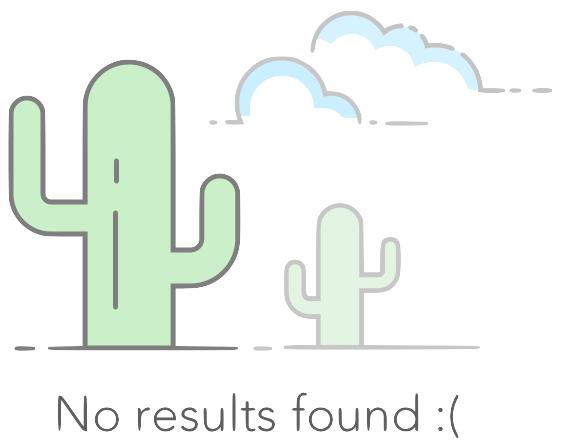
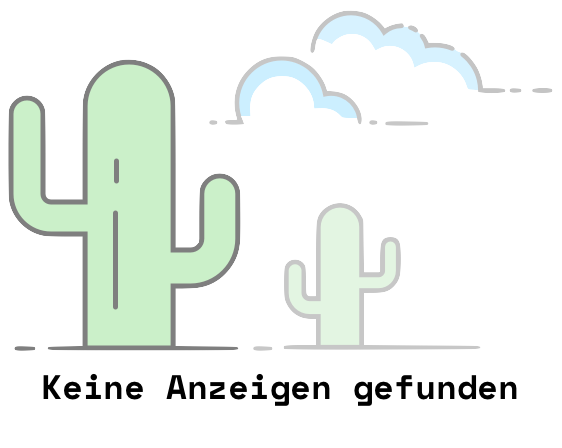
- "Keine Anzeigen gefunden"-Seite-Bild auf Deutsch - Maybe fix für mehrere Ergebnisseiten - Platznutzung auf der Detailansicht verbessert

Changed region(s): [[0.0605, 0.8125, 0.9377, 0.9688]]

diff --git a/website_root/styles/detailView.css b/website_root/styles/detailView.css
@@ -24,6 +24,10 @@
     }
 }
 
+.offerMainContent {
+    flex-grow: 100;
+}
+
 .offerNameTime {
     display: inline-flex;
     justify-content: space-between;
@@ -158,11 +162,11 @@
 }
 
 .map {
-    max-height: 250px;
+    max-height: 500px;
 }
 
 #mapView {
-    height: 250px;
+    height: 500px;
 }
 
 .errorContainer > h1 {

diff --git a/website_root/search.php b/website_root/search.php
@@ -6,7 +6,7 @@ use php\offer\OfferDAOImpl;
 include_once 'php/classes.php';
 
 if (!isset($_SESSION["searchStartWith"])) {
-    $_SESSION["searchStartWith"] = 0;
+    $_SESSION["searchStartWith"] = -1;
 }
 if (isset($_GET["startWith"])) {
     $start = (int)htmlspecialchars($_GET["startWith"]);
@@ -30,7 +30,7 @@ if (isset($_GET["startWith"])) {
     }
 } //Normale Suche (Startseite oder searchJob)
 elseif (isset($_GET['what']) || isset($_GET['where'])) {
-    $_SESSION["searchStartWith"] = 0;
+    $_SESSION["searchStartWith"] = -1;
     //Suchbegriffe übernehmen oder leer setzen
     $what = htmlspecialchars($_GET['what']) ?? "";
     $where = htmlspecialchars($_GET['where']) ?? "";
@@ -63,7 +63,7 @@ elseif (isset($_GET['what']) || isset($_GET['where'])) {
     displayResults($result);
     //Wenn gefiltert wurde, oder die Seite neugeladen wurde
 } elseif (isset($_GET['type1']) || isset($_GET['type2']) || isset($_GET['type4']) || isset($_GET['type8']) || isset($_GET['duration1']) || isset($_GET['duration2']) || isset($_GET['duration4']) || isset($_GET['time1']) || isset($_GET['time2']) || isset($_GET['time4']) || isset($_GET['time8']) || isset($_GET['time16']) || isset($_SESSION['ls_what']) || isset($_SESSION['ls_where'])) {
-    $_SESSION["searchStartWith"] = 0;
+    $_SESSION["searchStartWith"] = -1;
     //Filter laden, oder leeren
     $type = ($_GET['type1'] ?? 0) + ($_GET['type2'] ?? 0) + ($_GET['type4'] ?? 0) + ($_GET['type8'] ?? 0);
     $duration = ($_GET['duration1'] ?? 0) + ($_GET['duration2'] ?? 0) + ($_GET['duration4'] ?? 0);
@@ -181,7 +181,7 @@ function displayResults($result)
                     </form>
                     <?php
                 }
-                if (sizeof($result) === 5) {
+                if (sizeof($result) === 5 && $result[sizeof($result) - 1]->getId() - 1 >= 0) {
                     ?>
                     <form method="GET">
                         <label for="nextSite" hidden>Nächste Seite</label>

diff --git a/website_root/php/offer/OfferDAOImpl.php b/website_root/php/offer/OfferDAOImpl.php
@@ -243,8 +243,9 @@ class OfferDAOImpl implements OfferDAO
             }
             $command .= ")";
         }
-        if ($startID > 0) {
-            $command .= " AND offers.id <= " . $startID;
+        if ($startID >= 0) {
+            $command .= " AND offers.id <= ?";
+            $values[] = $startID;
         }
         $command .= " ORDER BY offers.id DESC";
         $command .= " LIMIT 5";
